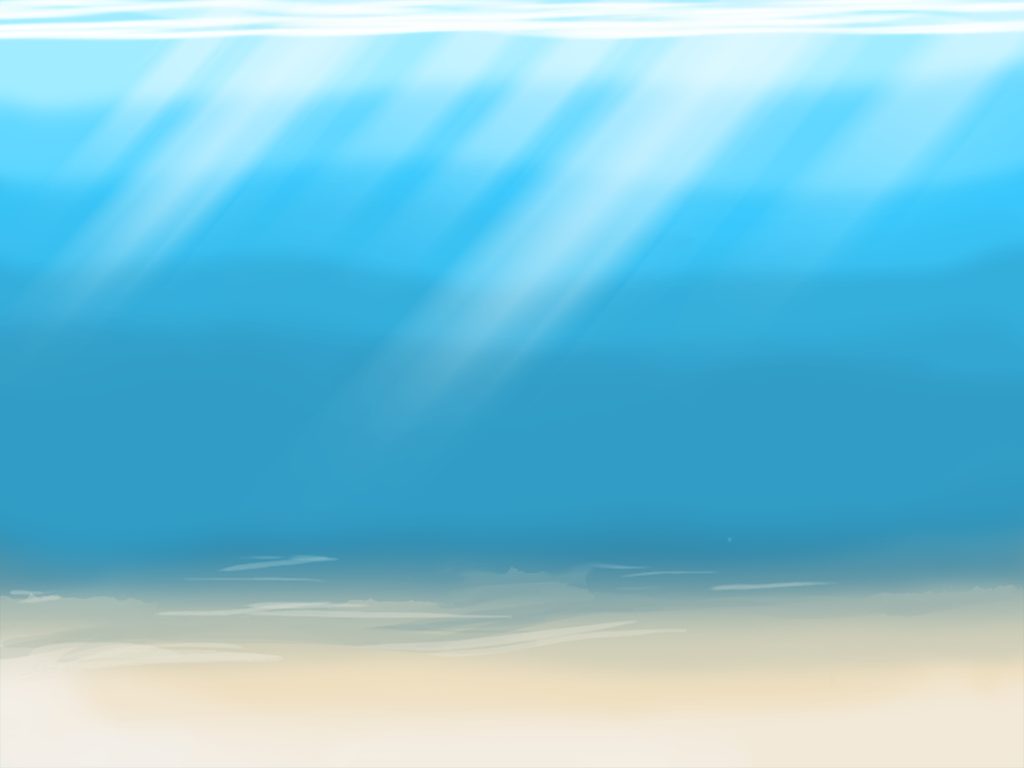
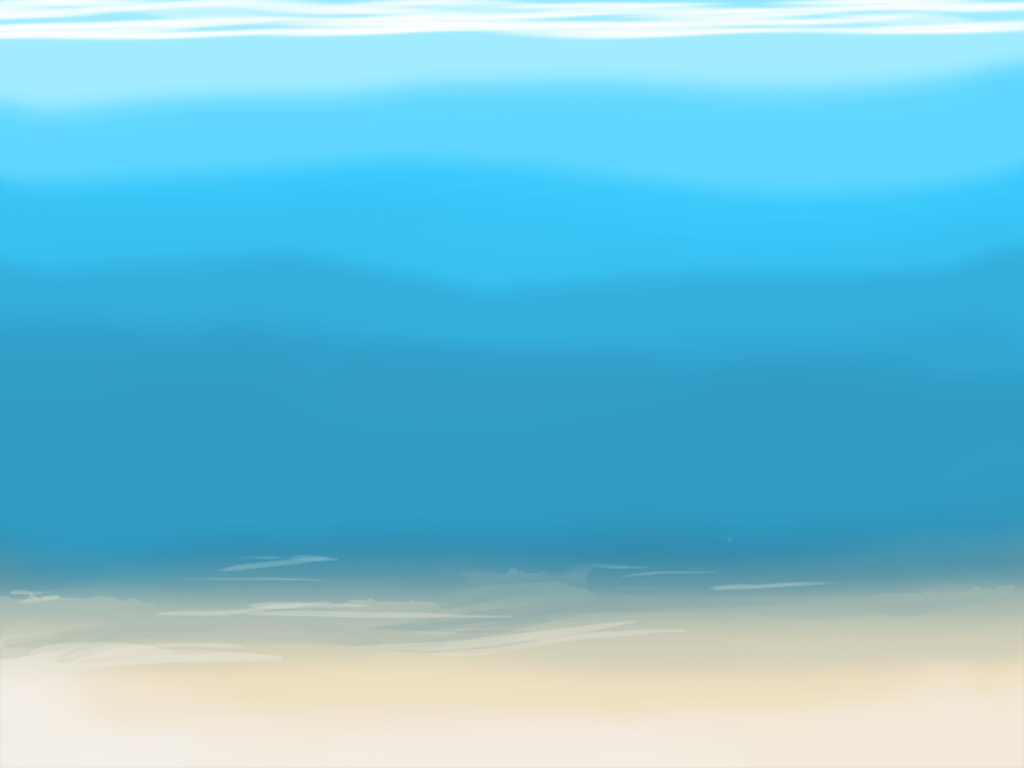
Added sunbeam code and test sunbeams

diff --git a/Seatunes/Seatunes/Sunbeams.m b/Seatunes/Seatunes/Sunbeams.m
@@ -1,0 +1,100 @@
+//
+//  Sunbeams.m
+//  Seatunes
+//
+//  Created by Patrick Vishayanuroj on 5/11/12.
+//  Copyright 2012 Paul Vishayanuroj. All rights reserved.
+//
+
+#import "Sunbeams.h"
+
+@implementation Sunbeams
+
+static const CGFloat SB_FADE_IN_DURATION = 0.35f;
+static const CGFloat SB_FADE_OUT_DURATION = 0.35f;
+
++ (id) sunbeamsCycling:(NSUInteger)numbeams 
+{
+    return [[[self alloc] initSunbeams:numbeams showAll:NO] autorelease];
+}
+
++ (id) sunbeamsStatic:(NSUInteger)numbeams
+{
+    return [[[self alloc] initSunbeams:numbeams showAll:YES] autorelease];
+}
+
+- (id) initSunbeams:(NSUInteger)numbeams showAll:(BOOL)showAll
+{
+    if ((self = [super init])) {
+        
+        numbeams_ = numbeams;
+        sprites_ = [[NSMutableArray arrayWithCapacity:numbeams] retain];
+        
+        for (NSUInteger i = 0; i < numbeams; ++i) {
+            
+            NSString *spriteName = [NSString stringWithFormat:@"Sunbeam %d.png", i];
+            CCSprite *sprite = [CCSprite spriteWithFile:spriteName];
+            sprite.anchorPoint = CGPointZero;
+            [self addChild:sprite];
+            
+            [sprites_ addObject:sprite];
+        }   
+        
+        if (!showAll) {
+            for (CCSprite *sprite in sprites_) {
+                sprite.opacity = 0;
+            }
+            [self scheduleCycle];
+        }
+    }
+    
+    return self;
+}
+
+- (void) dealloc
+{
+    [sprites_ release];
+    
+    [super dealloc];
+}
+
+- (void) scheduleCycle
+{
+    NSMutableArray *actions = [NSMutableArray arrayWithCapacity:numbeams_ * 2];
+    
+    for (NSUInteger i = 0; i < numbeams_; ++i) {
+        
+        CGFloat delayTime = 1.0f;
+        CCActionInterval *delay = [CCDelayTime actionWithDuration:delayTime];
+        
+        CCActionInstant *set = [CCCallBlock actionWithBlock:^{
+            CCSprite *sprite = [sprites_ objectAtIndex:i]; 
+//            sprite.visible = !sprite.visible;
+//            NSLog(@"set %@, %d, vis: %d", sprite, i, sprite.visible);            
+  
+            CCActionInterval *fade;
+            if (sprite.opacity == 0) {
+                fade = [CCFadeIn actionWithDuration:SB_FADE_IN_DURATION];
+            }
+            else {
+                fade = [CCFadeOut actionWithDuration:SB_FADE_OUT_DURATION];
+            }
+            [sprite runAction:fade];
+        }];
+
+        [actions addObject:delay];
+        [actions addObject:set];
+    }
+    
+    CCActionInstant *done = [CCCallFunc actionWithTarget:self selector:@selector(done)];
+    [actions addObject:done];
+    
+    [self runAction:[CCSequence actionsWithArray:actions]];
+}
+
+- (void) done
+{
+    [self scheduleCycle];
+}
+
+@end

diff --git a/Seatunes/Seatunes/Classes/FreePlayLayer.m b/Seatunes/Seatunes/Classes/FreePlayLayer.m
@@ -17,6 +17,7 @@
 #import "BubbleGroup.h"
 #import "CCNode+PauseResume.h"
 #import "DataUtility.h"
+#import "Sunbeams.h"
 
 @implementation FreePlayLayer
 
@@ -53,6 +54,10 @@ static const CGFloat FPL_BUBBLE_Y = 150.0f;
         CCSprite *background = [CCSprite spriteWithFile:@"Ocean Background.png"];
         background.anchorPoint = CGPointZero;
         [self addChild:background];            
+        
+        sunbeams_ = [[Sunbeams sunbeamsCycling:2] retain];
+        //sunbeams_ = [[Sunbeams sunbeamsStatic:2] retain];
+        [self addChild:sunbeams_];        
         
         instructor_ = [[Instructor instructor:kWhaleInstructor] retain];
         instructor_.position = ccp(FPL_INSTRUCTOR_X, FPL_INSTRUCTOR_Y);
@@ -108,6 +113,7 @@ static const CGFloat FPL_BUBBLE_Y = 150.0f;
     [sideMenu_ release];
     [sideMenuButton_ release];
     [bubbles_ release];
+    [sunbeams_ release];
     
     [super dealloc];
 }

diff --git a/Seatunes/Seatunes/Sunbeams.h b/Seatunes/Seatunes/Sunbeams.h
@@ -1,0 +1,26 @@
+//
+//  Sunbeams.h
+//  Seatunes
+//
+//  Created by Patrick Vishayanuroj on 5/11/12.
+//  Copyright 2012 Paul Vishayanuroj. All rights reserved.
+//
+
+#import "CommonHeaders.h"
+#import <Foundation/Foundation.h>
+#import "cocos2d.h"
+
+@interface Sunbeams : CCNode {
+    
+    NSMutableArray *sprites_;
+    
+    NSUInteger numbeams_;
+}
+
++ (id) sunbeamsCycling:(NSUInteger)numbeams;
+
++ (id) sunbeamsStatic:(NSUInteger)numbeams;
+
+- (id) initSunbeams:(NSUInteger)numbeams showAll:(BOOL)showAll;
+
+@end

diff --git a/Seatunes/Seatunes/Classes/FreePlayLayer.h b/Seatunes/Seatunes/Classes/FreePlayLayer.h
@@ -18,6 +18,7 @@
 @class Menu;
 @class Button;
 @class BubbleGroup;
+@class Sunbeams;
 
 @interface FreePlayLayer : CCLayer <MenuDelegate, ButtonDelegate> {
     
@@ -32,6 +33,8 @@
     Button *sideMenuButton_;    
     
     BubbleGroup *bubbles_;
+    
+    Sunbeams *sunbeams_;
     
     BOOL sideMenuOpen_;
     
